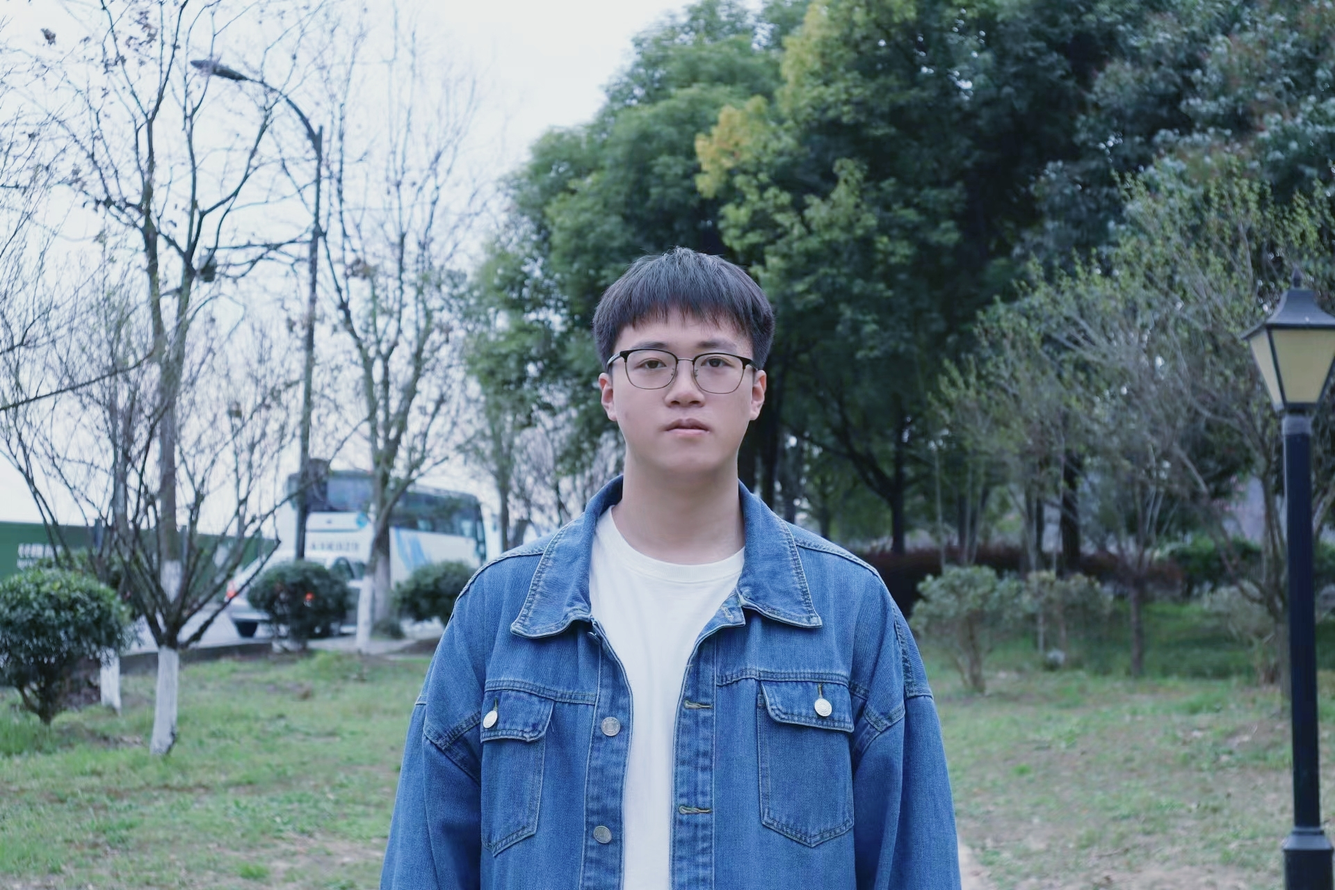
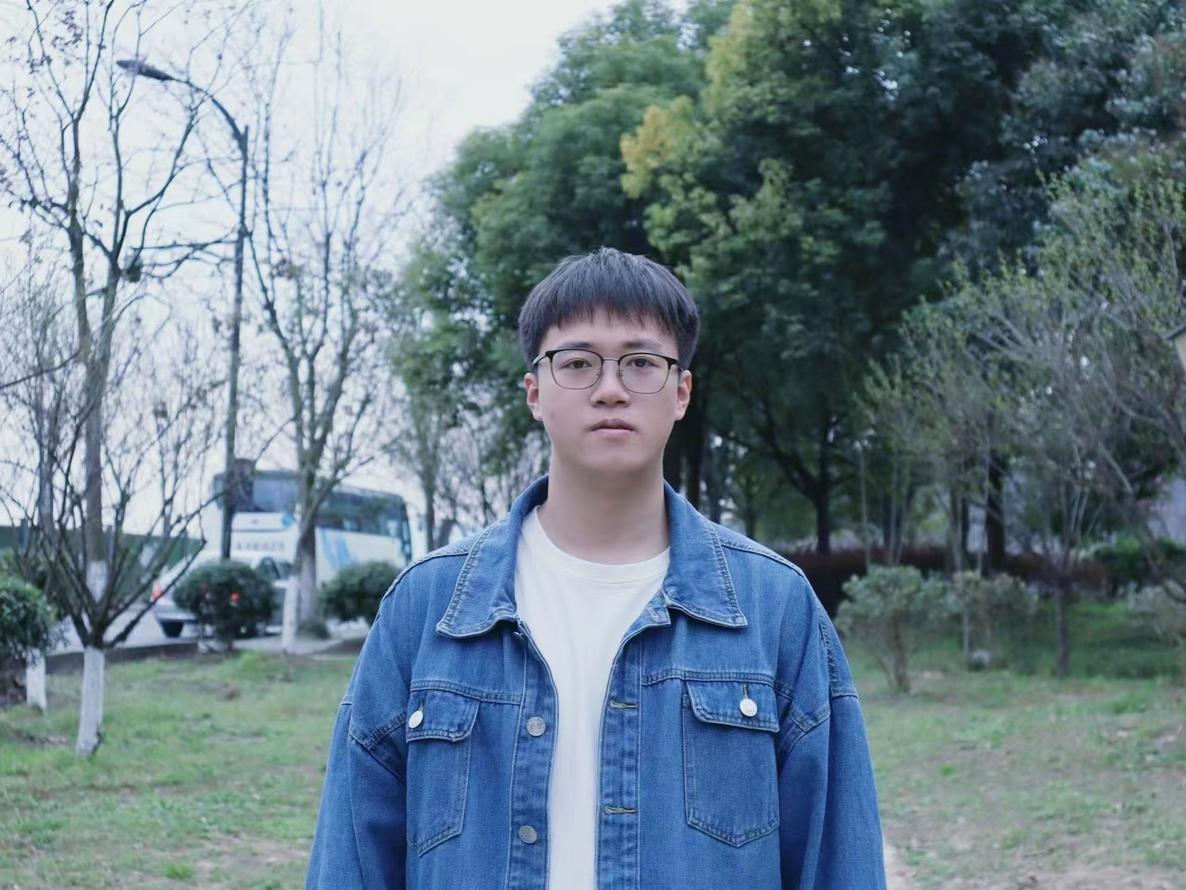
update students info style

diff --git a/students.html b/students.html
@@ -7,37 +7,49 @@
   <body>
     <div class="container-lg" style="padding-top: 15px;">
         <h2>Students of <a href="./index.html" target="_blank">Weiqin Zou</a></h2>
-            <div class="col-md-9" style="border: 2px solid;border-color: #ADADAD;border-radius: 10px;margin-bottom: 50px;padding-bottom: 15px;">
-                <div class="row" style="margin-top: 15px;">
-                        <div class="col-md-6 row">
-                            <div class="col-md-6"><img decoding="async" src="./pics/cbt.jpg" class="img-thumbnail" width="80%"></div>
-                            <div style="margin-top: 50px;">
-                                <a href="https://cbting.github.io/" target="_blank">陈冰婷/Bingtin Chen</a><br><br>
-                                2021
-                            </div>
-                        </div>
-                        <div class="col-md-6 row">
-                                <div class="col-md-6"><img decoding="async" src="./pics/lwj.jpg" class="img-thumbnail" width="120%"></div>
-                                <div style="margin-top: 50px;">
-                                    <a href="https://blue-lwj.github.io/" target="_blank">刘文杰/Wenjie Liu</a><br><br>
-                                    2021
-                            </div>
-                        </div>
-                </div>
-                <div class="row" style="margin-top: 5px;">
-                    <div class="col-md-6 row">
-                            <div class="col-md-6"><img decoding="async" src="./pics/zwd.jpg" class="img-thumbnail" width="80%"></div>
-                            <div style="margin-top: 50px;">
-                                <a href="https://anniewzd.github.io/" target="_blank">王昭丹/Zhaodan Wang</a><br><br>
-                                2021
+        <!-- border: 2px solid;border-color: #ADADAD;border-radius: 10px; -->
+            <div style="margin-bottom: 50px;padding-bottom: 15px;border: 2px solid;border-color: #ADADAD;border-radius: 10px;width: 80%;">
+                <div style="margin-left: 50px;"> 
+                    <div style="margin-top: 15px;">
+                        <h2>2021级</h2>
+                    </div>
+                    <div class="row" style="margin-top: 15px;">
+                                <div class="col-md-4 ">
+                                    <div ><img decoding="async" src="./pics/cbt.jpg" height="200px" width="150px">
+                                        <!-- <a href="https://cbting.github.io/" target="_blank" >陈冰婷/Bingtin Chen</a> -->
+                                    </div>
+                                    <div style="text-align: left;">
+                                        <a href="https://cbting.github.io/" target="_blank" >陈冰婷/Bingtin Chen</a>
+                                    </div>
+                                </div>
+
+                                <div class="col-md-4">
+                                    <div ><img decoding="async" src="./pics/lwj2.jpg" height="200px" width="150px"></div>
+                                    <div style="text-align: left;">
+                                        <a href="https://blue-lwj.github.io/" target="_blank" >刘文杰/Wenjie Liu</a>
+                                    </div>
+                                </div>
+
+                                <div class="col-md-4">
+                                    <div ><img decoding="async" src="./pics/zwd.jpg" height="200px" height="200px" width="150px"></div>
+                                    <div style="text-align: left;">
+                                        <a href="https://anniewzd.github.io/" target="_blank" >王昭丹/Zhaodan Wang</a>
+                                    </div>
                             </div>
                     </div>
+
+
                 </div>
 
-                <HR>
 
-                <div class="row" style="margin-top: 5px;">
-                        <div class="col-md-6 row">
+
+
+
+                <!-- <HR > -->
+
+
+<!--                 <div class="row" style="margin-top: 5px;">
+                        <div >
                             <div class="col-md-6"><img decoding="async" src="./pics/cby.jpg" class="img-thumbnail" width="80%"></div>
                             <div style="margin-top: 50px;">
                                 <a href="https://caiby0927.github.io" target="_blank">蔡碧瑜/Biyu Cai</a><br><br>
@@ -60,10 +72,39 @@
                                 2022
                             </div>
                     </div>
+                </div> -->
+                <div style="margin-left: 50px;"> 
+                    <div style="margin-top: 15px;">
+                        <h2>2022级</h2>
+                    </div>
+                    <div class="row" style="margin-top: 15px;">
+                            <div class="col-md-4 ">
+                                <div><img decoding="async" src="./pics/cby.jpg" height="200px" width="150px"></div>
+                                <div style="text-align: left;">
+                                    <a href="https://caiby0927.github.io" target="_blank">蔡碧瑜/Biyu Cai</a>
+
+                                </div>
+                            </div>
+
+                            <div class="col-md-4">
+                                <div><img decoding="async" src="./pics/cxh2.jpg" height="200px" width="150px"></div>
+                                <div style="text-align: left;">
+                                    <a href="https://chenxiaohan0125.github.io" target="_blank">陈笑涵/Xiaohan Chen</a>
+                                </div>
+                            </div>
+
+                            <div class="col-md-4">
+                                <div><img decoding="async" src="./pics/mqs.jpg" height="200px" width="150px"></div>
+                                <div style="text-align: left;"> 
+                                    <a href="https://mengqianshuang.github.io" target="_blank">孟千爽/Qianshuang Meng</a>
+                                </div>
+                            </div>
+
+                    </div>
                 </div>
 
-                <HR>
-                <div class="row" style="margin-top: 5px;">
+                <!-- <HR> -->
+<!--                 <div class="row" style="margin-top: 5px;">
                         <div class="col-md-6 row">
                             <div class="col-md-6"><img decoding="async" src="./pics/xh.png" class="img-thumbnail" width="80%"></div>
                             <div style="margin-top: 50px;">
@@ -79,6 +120,37 @@
                             </div>
                         </div>
                 </div>
+ -->
+                <div style="margin-left: 50px;"> 
+                    <div style="margin-top: 15px;">
+                        <h2>2023级</h2>
+                    </div>
+                    <div class="row" style="margin-top: 15px;">
+                            <div class="col-md-4 ">
+                                <div><img decoding="async" src="./pics/xh2.jpg" height="200px" width="150px"></div>
+                                <div style="text-align: left;">
+                                    <a href="https://lyraxv.github.io" target="_blank">许慧/Hui Xu</a>
+
+                                </div>
+                            </div>
+
+                            <div class="col-md-4">
+                                <div><img decoding="async" src="./pics/zgw.png" height="200px" width="150px"></div>
+                                <div style="text-align: left;">
+                                    <a href="https://excuse2020.github.io/zgw.github.io/" target="_blank">张国威/Guowei Zhang</a>
+                                </div>
+                            </div>
+
+    <!--                         <div class="col-md-4">
+                                <div class="col-md-6"><img decoding="async" src="./pics/mqs.jpg" height="200px" width="150px"></div>
+                                <div>
+                                    <a href="https://mengqianshuang.github.io" target="_blank">孟千爽/Qianshuang Meng</a>
+                                </div>
+                            </div> -->
+
+                    </div>
+                </div>
+
 
             </div>
 
